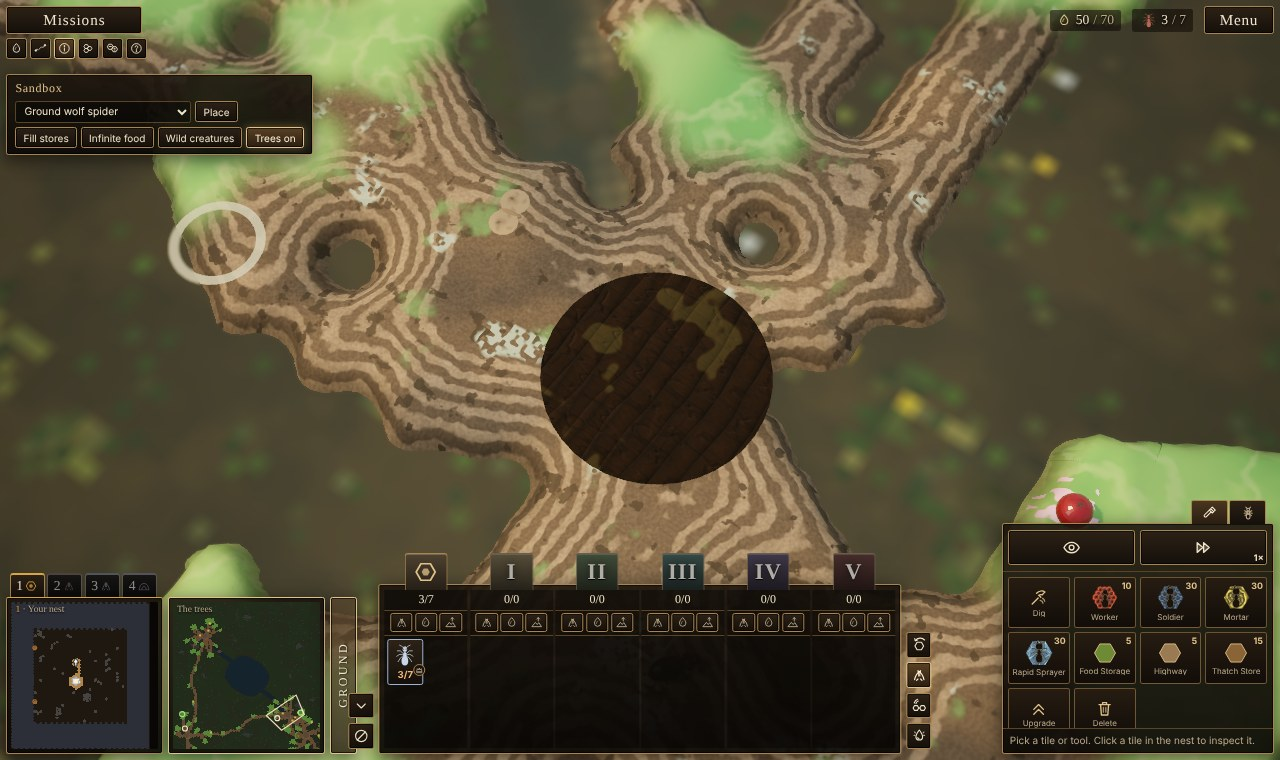
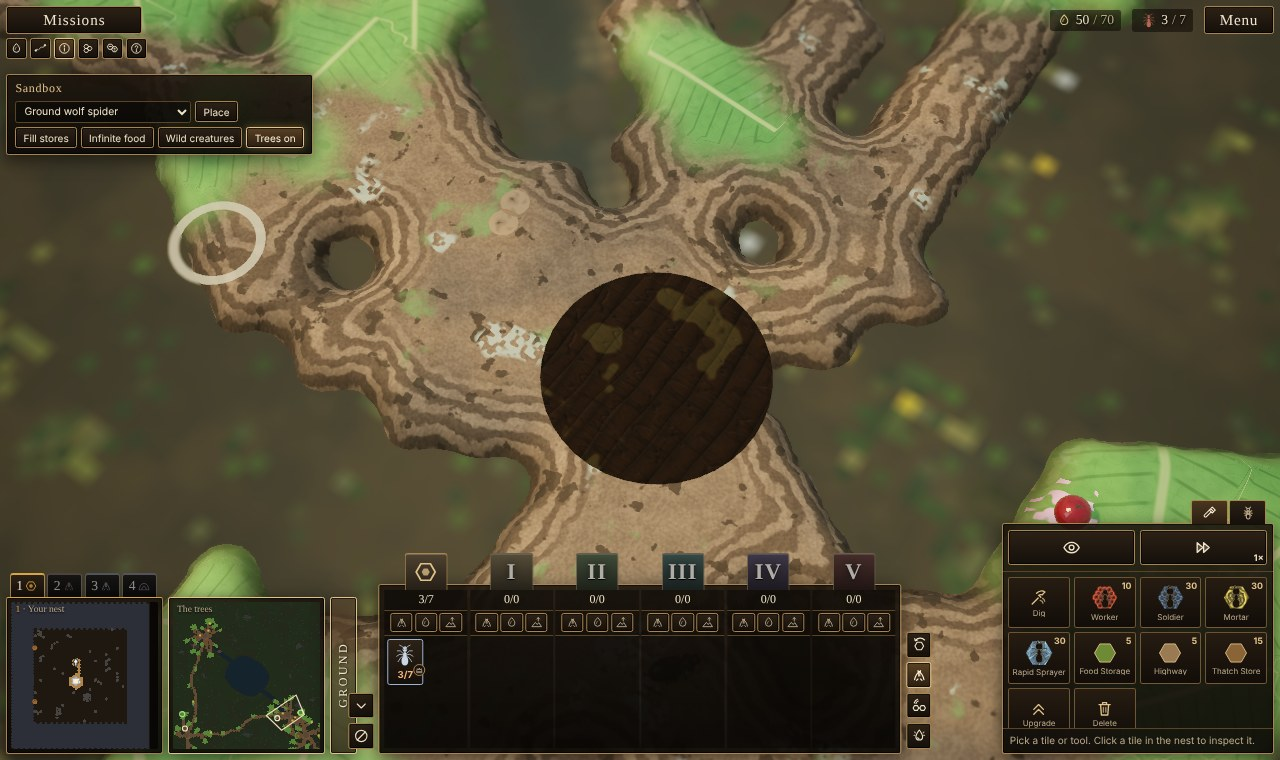
Trees: a flat walkable top rounded only at the edge (creatures stand on the surface, user 2026-11-08), darker bark
Claude-Session: https://claude.ai/code/session_01CHQSvGEqMxCbk27pSXGJ8c

diff --git a/src/render/trees/canopyTerrain.ts b/src/render/trees/canopyTerrain.ts
@@ -116,13 +116,13 @@ vec3 canopyColor(vec3 wp, float leaf, float sd, float kind, vec4 lv, out float r
   float wob = fbm(p * 0.11) * 9.0 + fbm(p * 0.4 + 9.0) * 3.0;
   float ridge = 0.5 + 0.5 * sin(sd * 4.2 + wob);
   ridge = smoothstep(0.3, 0.8, ridge) * (0.5 + 0.5 * vnoise(p * 0.25 + 3.0)) * smoothstep(7.0, 3.0, sd);
-  ridge += smoothstep(3.0, 7.0, sd) * (0.3 + 0.5 * fbm(p * 0.3 + 21.0));
+  ridge += smoothstep(3.0, 7.0, sd) * (0.15 + 0.35 * fbm(p * 0.3 + 21.0));
   float crack = smoothstep(0.64, 0.7, fbm(p * 0.21 + 5.0));
-  vec3 bark = mix(vec3(0.13, 0.09, 0.055), vec3(0.30, 0.21, 0.13), ridge);
-  bark *= 0.85 + 0.3 * vnoise(p * 1.7);
+  vec3 bark = mix(vec3(0.09, 0.06, 0.035), vec3(0.24, 0.165, 0.1), ridge);
+  bark *= 0.8 + 0.3 * vnoise(p * 1.7);
   bark = mix(bark, vec3(0.07, 0.05, 0.03), crack * 0.85);
   float lichen = smoothstep(0.66, 0.74, fbm(p * 0.07 + 11.0)) * smoothstep(0.35, 0.6, vnoise(p * 0.9));
-  bark = mix(bark, vec3(0.5, 0.56, 0.42), lichen * 0.6);
+  bark = mix(bark, vec3(0.46, 0.52, 0.38), lichen * 0.45);
   float moss = smoothstep(0.6, 0.78, fbm(p * 0.1 - 3.0)) * smoothstep(2.5, 5.0, sd);
   bark = mix(bark, vec3(0.16, 0.3, 0.1), moss * 0.6);
   // leaves: a blade with a midrib down its length (lv.x along, lv.y across, 0..1; lv.z 1 where a blade was found),
@@ -300,13 +300,15 @@ vec3 canopyColor(vec3 wp, float leaf, float sd, float kind, vec4 lv, out float r
    * distance), leaves a thin platform slightly domed; outside the walkable set it curls under and is discarded.
    */
   heightAt(px: number, py: number): number {
-    const sdv = this.sdAt(px, py) + (valueNoise2(px * 0.13, py * 0.13, 7) - 0.5) * 0.4;
+    const sdv = this.sdAt(px, py) + (valueNoise2(px * 0.13, py * 0.13, 7) - 0.5) * 0.3;
     const leaf = this.leafAt(px, py);
-    const R = this.grid.R * 0.75;
-    const t = Math.max(0, Math.min(1, (sdv + 0.5) / R));
-    const wood = this.wallH * Math.sqrt(Math.max(0, 1 - (1 - t) * (1 - t)));
-    // (a leaf lies flush with the wood's top: a thin, slightly domed blade, never a pit in the branch)
-    const lf = this.wallH * (0.86 + 0.1 * Math.sqrt(t)) + valueNoise2(px * 0.03, py * 0.03, 3) * 0.8;
+    // the walkable top is flat (a creature standing on it, legs wide, stays on the surface — user 2026-11-08: nothing
+    // sinks in): the bark rounds off only within about a cell and a half of the edge
+    const edge = this.grid.cell * 1.6;
+    const t = Math.max(0, Math.min(1, (sdv + 0.5) / edge));
+    const round = Math.sqrt(Math.max(0, 1 - (1 - t) * (1 - t)));
+    const wood = this.wallH * (0.94 + 0.06 * valueNoise2(px * 0.06, py * 0.06, 5)) * round;
+    const lf = this.wallH * (0.9 + 0.04 * valueNoise2(px * 0.03, py * 0.03, 3)) * round;
     let h = wood * (1 - leaf) + lf * leaf;
     if (sdv < -0.5) h = -1.5 * Math.min(1, (-0.5 - sdv) / 2);
     return h;
